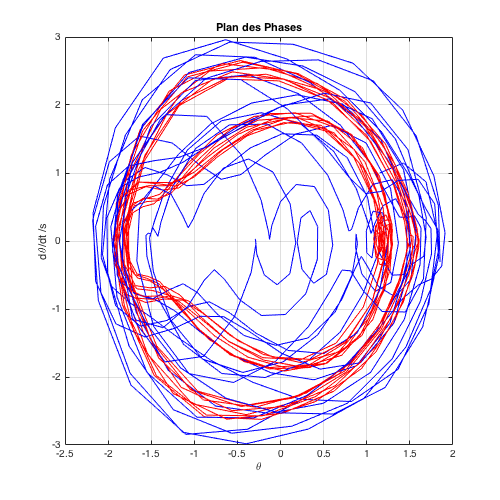
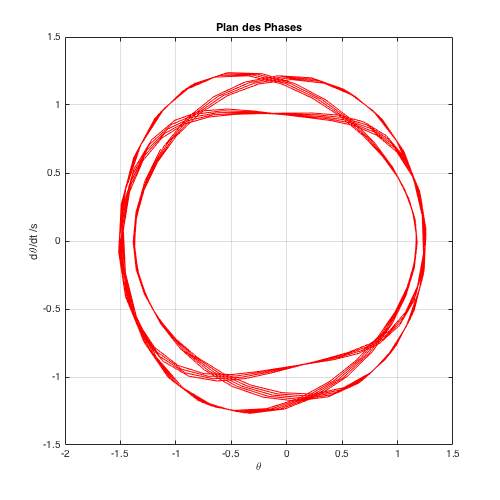
tests

diff --git a/Matlab/diagramme_phase.m b/Matlab/diagramme_phase.m
@@ -11,7 +11,7 @@ options = odeset('RelTol',1e-6);
   %[t,y] = ode45('pendulum_double_ressort',time,[0 j/5],options)
 
   [t,y] = ode45('pendulum_double_ressort',time,x0,options);
-  [t,y2] = ode45('pendulum_double_ressort',time,x1,options);
+  %[t,y2] = ode45('pendulum_double_ressort',time,x1,options);
   %@% [t,y3] = ode45('pendulum_double_ressort',time,x2,options);
   
    for i=2:max(size(t))
@@ -27,7 +27,7 @@ options = odeset('RelTol',1e-6);
    
    subplot(1,1,1);
    line([y(i-1,1) y(i,1)],[y(i-1,2) y(i,2)],'Color','r','LineWidth',1);
-   line([y2(i-1,1) y2(i,1)],[y2(i-1,2) y2(i,2)],'Color','b','LineWidth',1);
+  % line([y2(i-1,1) y2(i,1)],[y2(i-1,2) y2(i,2)],'Color','b','LineWidth',1);
    %@% line([y3(i-1,1) y3(i,1)],[y3(i-1,2) y3(i,2)],'Color','g','LineWidth',1);
 
    f = getframe(gcf);

diff --git a/Matlab/main.m b/Matlab/main.m
@@ -5,12 +5,12 @@
 % VERT = PENDULE 3 idem pendule si besoin (bifurcation)
 
 global k k1 k2 m l l1 l2 Longueur l0 A omega x0 x1 x2 time
-m=5;k1=5;k2=10;l=10;k=0;A=500;omega=3;l1=l/2;l2=l/2;
+m=5;k1=5;k2=10;l=10;k=0;A=0;omega=0.1;l1=l/2;l2=l/2;
 
 %%% Conditions Initiales %%%
 % note: x = [theta.0, theta0]
-x0 = [1.1708 0];
-x1 = [1.15 1];
+x0 = [0 pi/2];
+x1 = [1.15 1.8];
 x2 = [1.1508 0];
 
 %x0 = [0 0];
@@ -20,13 +20,12 @@ x2 = [1.1508 0];
 
 
 %%% DIAGRAMME DE BASE %%%
-time = [0:0.25:20];
-%diagramme_base()
-
+time = [0:1:200];
+diagramme_base()
 
 %%% DIAGRAMME DE PHASE %%%
-time = [0:0.25:100];
-diagramme_phase()
+time = [0:0.25:50];
+%diagramme_phase()
 
 
 
